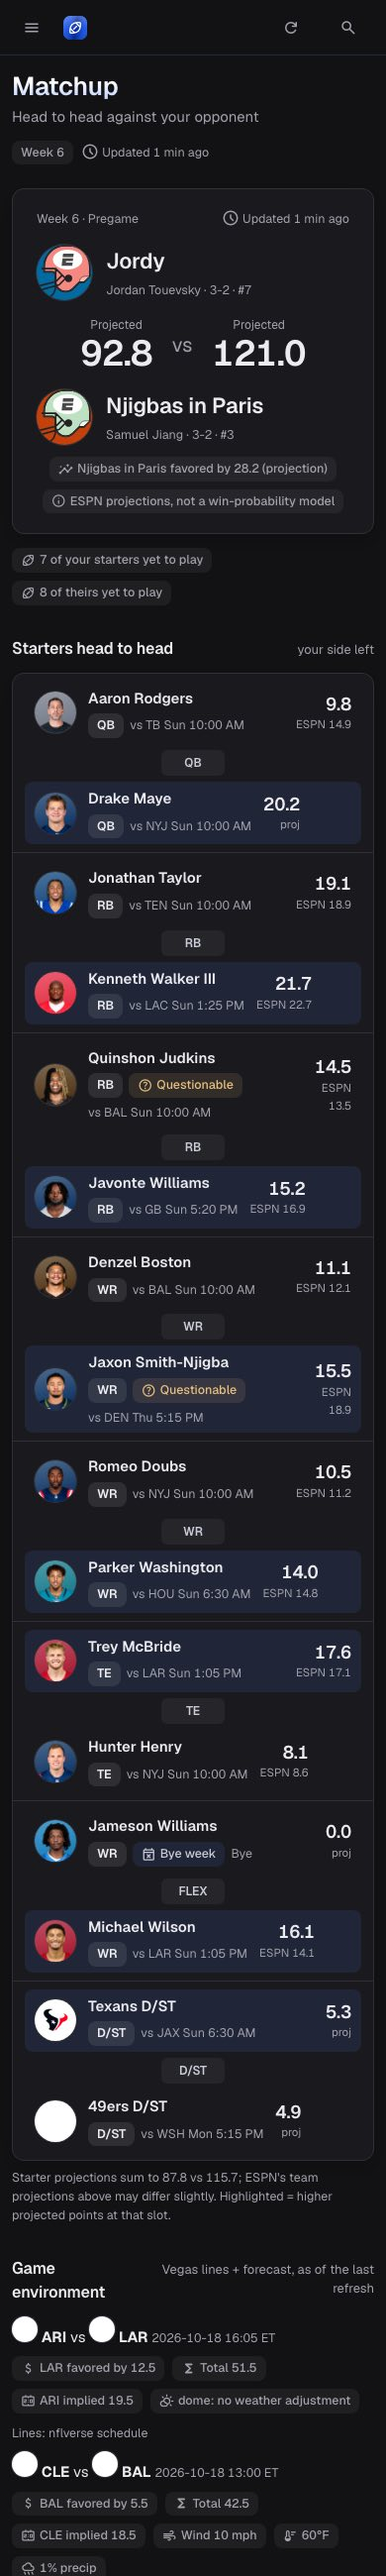
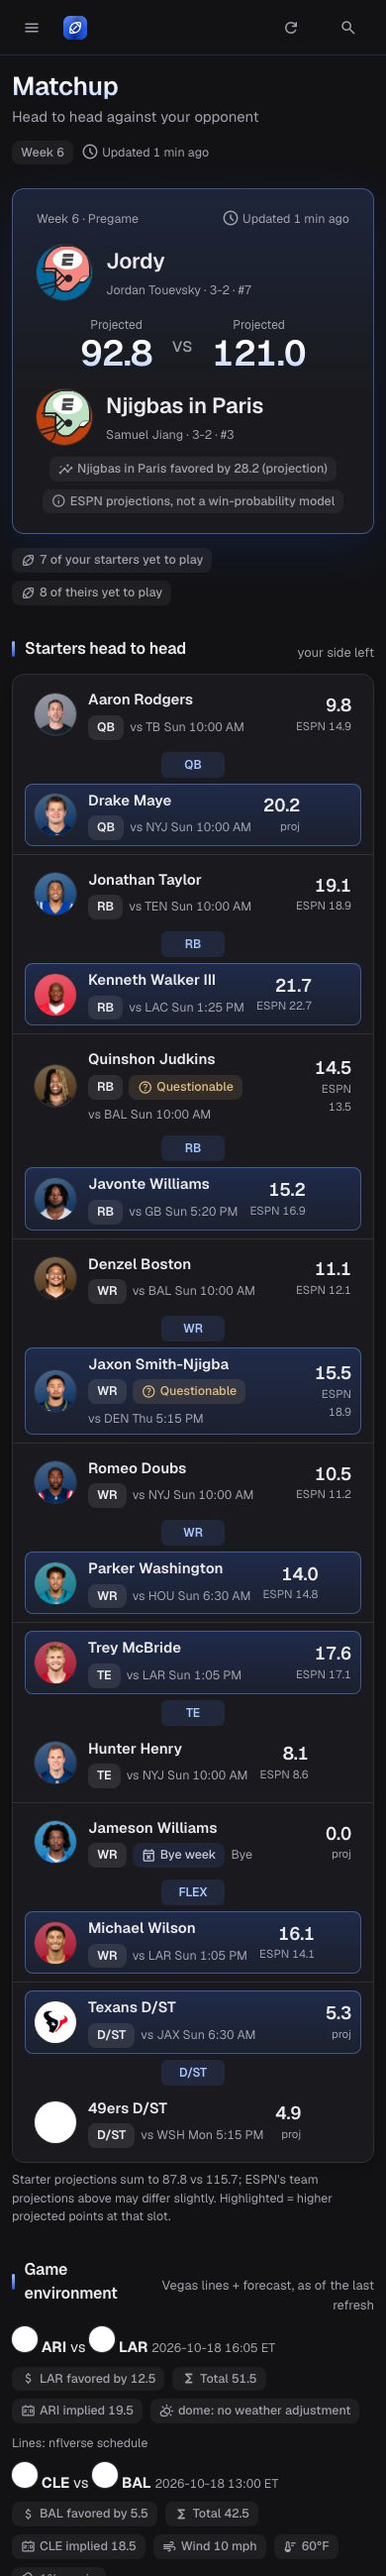
Carry the blue sheen styling through Players, My team, Matchup, League and Overview: segmented filters, switches, search field, assistant chips, blue-tinted highlights

diff --git a/web/src/pages/Players.tsx b/web/src/pages/Players.tsx
@@ -1,6 +1,7 @@
 import { useDeferredValue, useMemo, useRef, useState } from 'react'
 import { useVirtualizer } from '@tanstack/react-virtual'
 import { useApi } from '../api'
+import { Seg, Switch } from '../pick'
 import { Chip, Empty, MovesBlock, PlayerRow, Section, Skel, Icon } from '../ui'
 import type { Player } from '../types'
 
@@ -38,13 +39,13 @@ export default function Players() {
       {d.watch.length > 0 && <><Section title="Watchlist" aside={`${d.watch.length} saved player${d.watch.length !== 1 ? 's' : ''}`} />
         <div className="rows">{d.watch.map((p: Player) => <PlayerRow key={p.id} p={p} showActual={false} note={` · ${p.where}`} whyOpen={false} />)}</div></>}
       <Section title="Browse free agents" />
-      <div className="pills" role="group" aria-label="Position">{['All', ...d.positions].map((x: string) => <button key={x} className={`pill ${pos === x ? 'on' : ''}`} onClick={() => setPos(x)}>{x}</button>)}</div>
-      <div className="form" style={{ marginTop: 10 }}>
-        <div className="field"><label>Sort by</label><div className="pills">{SORTS.map((x) => <button key={x} className={`pill ${sort === x ? 'on' : ''}`} onClick={() => setSort(x)}>{x}</button>)}</div></div>
-        <div className="field"><label htmlFor="plq">Search free agents</label><input id="plq" type="text" value={q} placeholder="Search by name or team" onChange={(e) => setQ(e.target.value)} /></div>
-        <label className="toggle"><input type="checkbox" checked={healthy} onChange={(e) => setHealthy(e.target.checked)} /> Only healthy, not on bye</label>
+      <div className="toolbar">
+        <Seg label="Position" value={pos} onChange={setPos} options={['All', ...d.positions].map((x: string) => ({ v: x, l: x }))} />
+        <Seg label="Sort by" value={sort} onChange={setSort} options={SORTS.map((x) => ({ v: x, l: x }))} />
+        <label className="search-f"><Icon n="search" /><input id="plq" type="text" value={q} placeholder="Search by name or team" aria-label="Search free agents" onChange={(e) => setQ(e.target.value)} /></label>
+        <Switch on={healthy} onChange={setHealthy}>Only healthy, not on bye</Switch>
       </div>
-      {d.hasTags && <div className="pills" style={{ marginBottom: 8 }}>{['Buy low', 'Sell high', 'Role growing'].map((x) => <button key={x} className={`pill ${tag === x ? 'on' : ''}`} onClick={() => setTag(tag === x ? '' : x)} title="From expected-points vs actual production (backtested: buy-low and sell-high predict the next game; role-growing is informational).">{x}</button>)}</div>}
+      {d.hasTags && <div className="quick" role="group" aria-label="Signals">{['Buy low', 'Sell high', 'Role growing'].map((x) => <button key={x} type="button" className="qchip" aria-pressed={tag === x} onClick={() => setTag(tag === x ? '' : x)} title="From expected-points vs actual production (backtested)"><Icon n={x === 'Buy low' ? 'trending_up' : x === 'Sell high' ? 'sell' : 'bolt'} />{x}</button>)}</div>}
       <div className="fresh" style={{ margin: '2px 0 8px' }}>{rows.length} players · rest-of-season points = expected fantasy points over the games left (byes, injuries and playoff weeks included), under your league scoring.</div>
       {rows.length === 0 ? <Empty title="No players match these filters" body="Try clearing a filter." /> : (
         <div ref={parent} className="list-virt" role="list" aria-label="Free agents">

diff --git a/web/src/styles.css b/web/src/styles.css
@@ -301,3 +301,24 @@ details.tune .form { margin: 0; padding: 16px; } details.tune summary .ms { tran
 .btn.primary:disabled::before { animation-play-state: paused; }
 .setup .tile { background: var(--blue-1); color: #fff; }
 @media (prefers-reduced-motion: reduce) { .btn.primary::before { animation: none !important; } }
+
+/* v6 touch-ups for the remaining screens */
+.sec h3 { display: flex; align-items: center; gap: 10px; } .sec h3::before { content: ""; width: 3px; height: 16px; border-radius: 3px; background: linear-gradient(180deg, var(--blue-hi), var(--blue-1)); }
+.actions { display: flex; flex-wrap: wrap; gap: 8px; margin: 12px 0; }
+.qchip[aria-pressed=true] { background: var(--accent-bg); border-color: var(--accent-line); color: var(--blue-hi); }
+.toolbar { display: flex; flex-wrap: wrap; gap: 12px 16px; align-items: center; margin: 4px 0 12px; }
+.search-f { display: flex; align-items: center; gap: 8px; flex: 1 1 240px; min-width: 200px; height: 40px; padding: 0 14px; border-radius: 999px; border: 1px solid var(--border); background: var(--surface); transition: border-color 200ms, box-shadow 200ms; color: var(--muted); }
+.search-f:focus-within { border-color: var(--accent-line); box-shadow: 0 0 0 3px rgba(79, 124, 255, .18); } .search-f input { flex: 1; min-width: 0; border: 0; background: transparent; outline: none; color: var(--text); }
+.row { transition: background 200ms, box-shadow 200ms; } .rows .row:hover { background: linear-gradient(90deg, rgba(47, 102, 234, .12), transparent 70%); }
+.row.moved { background: linear-gradient(90deg, rgba(47, 102, 234, .2), rgba(47, 102, 234, .04)); box-shadow: inset 3px 0 0 var(--blue-2); }
+.row.me { background: linear-gradient(90deg, rgba(47, 102, 234, .2), rgba(47, 102, 234, .04)); box-shadow: inset 3px 0 0 var(--blue-2); }
+.bar i { background: linear-gradient(90deg, var(--blue-1), var(--blue-hi)); }
+.kpi { position: relative; border: 1px solid var(--border); border-radius: var(--radius); background: linear-gradient(180deg, rgba(47, 102, 234, .1), rgba(47, 102, 234, 0) 70%), var(--surface); box-shadow: var(--shadow-sm); }
+.kpi b:not(.up) { background: linear-gradient(180deg, #fff 30%, #b6cdff); -webkit-background-clip: text; background-clip: text; color: transparent; }
+.rec:hover { border-color: var(--accent-line); box-shadow: 0 12px 32px rgba(31, 85, 224, .16); transform: translateY(-1px); }
+.rec .ic { background: var(--accent-bg); color: var(--blue-hi); } .rec .ic.act { color: var(--warn); background: var(--warn-bg); }
+.rec .edgenote, .notice > .ms { color: var(--blue-hi); } .notice.good > .ms { color: var(--good); } .notice.warn > .ms { color: var(--warn); } .notice.bad > .ms { color: var(--bad); }
+.duel .half.win { background: linear-gradient(180deg, rgba(47, 102, 234, .22), rgba(47, 102, 234, .08)); box-shadow: inset 0 0 0 1px var(--accent-line); } .duel .mid { color: var(--blue-hi); background: var(--accent-bg); }
+.board { background: linear-gradient(180deg, rgba(47, 102, 234, .14), rgba(47, 102, 234, 0) 60%), var(--surface); border-color: var(--accent-line); box-shadow: 0 16px 48px rgba(31, 85, 224, .14); }
+.board .big { background: linear-gradient(180deg, #fff 30%, #b6cdff); -webkit-background-clip: text; background-clip: text; color: transparent; }
+.rank { color: var(--blue-hi); }

diff --git a/web/src/pages/Team.tsx b/web/src/pages/Team.tsx
@@ -1,4 +1,5 @@
 import { useState } from 'react'
+import { Switch } from '../pick'
 import { useApi, post, qc } from '../api'
 import { AskAI, Icon, Notice, PlayerRow, RecCard, Rows, Section, Skel, signed, useActions } from '../ui'
 
@@ -20,8 +21,7 @@ export default function Team() {
           <div className="kpi"><b>{d.optimalTotal.toFixed(1)}</b><small>Optimal projected ({d.riskMode.toLowerCase()})</small></div>
           <div className="kpi"><b className={d.gain > 0.05 ? 'up' : ''}>{signed(d.gain)}</b><small>Possible gain</small></div>
         </div>
-        <label className="toggle" title={d.hasSwaps ? 'Shows where each player would sit. Nothing is changed in ESPN.' : 'Your lineup is already optimal.'}>
-          <input type="checkbox" checked={preview} disabled={!d.hasSwaps} onChange={(e) => setPreview(e.target.checked)} /> Preview the optimal lineup</label>
+        <Switch on={preview} onChange={(v) => d.hasSwaps && setPreview(v)}>{d.hasSwaps ? 'Preview the optimal lineup' : 'Lineup already optimal'}</Switch>
       </div>
       <Notice icon="lock"><b>Fantasy Hub is read-only.</b> Previews show recommendations; make the actual moves in the ESPN app.</Notice>
       {d.edgesOn && <Notice icon="bolt"><b>Edges on:</b> projections include adjustments for injuries, game environment, weather and opportunity. On ESPN's raw numbers your optimal lineup is {d.espnOptimal.toFixed(1)}; with edges {d.optimalTotal.toFixed(1)} ({signed(d.optimalTotal - d.espnOptimal)}).</Notice>}

diff --git a/web/src/pages/League.tsx b/web/src/pages/League.tsx
@@ -8,11 +8,11 @@ export default function League() {
     <>
       <Section title="Standings" aside={`${d.count} teams · ${d.regWeeks}-game regular season`} />
       <div className="rows" role="list">{d.standings.map((t: any) => (
-        <div key={t.id} className="row" style={{ gridTemplateColumns: '28px minmax(0,1fr) 80px 70px 80px', background: t.me ? 'var(--wash)' : undefined }}>
+        <div key={t.id} className={`row ${t.me ? 'me' : ''}`} style={{ gridTemplateColumns: '28px minmax(0,1fr) 80px 70px 80px' }}>
           <span className="rank num">{t.standing}</span>
           <div className="who"><FAvatar t={t} size={40} /><div style={{ minWidth: 0 }}><div className="nm">{t.name} {t.me && <Chip kind="info">You</Chip>}</div><div className="sub">{t.owner}</div></div></div>
           <div className="stat"><b>{t.record}</b><small>Record</small></div><div className="stat hide-sm"><b>{t.pf}</b><small>PF</small></div>
-          <div className="stat hide-sm">{t.playoffPct ? <><b>{Math.round(t.playoffPct)}%</b><small>Playoffs</small></> : null}</div>
+          <div className="stat hide-sm">{t.playoffPct ? <><b>{Math.round(t.playoffPct)}%</b><small>Playoffs</small><div className="bar"><i style={{ width: `${Math.round(t.playoffPct)}%` }} /></div></> : null}</div>
         </div>))}</div>
       <Section title={`Week ${d.week} matchups`} aside="ESPN projections" />
       {d.matchups.length ? <div className="rows">{d.matchups.map((m: any, i: number) => (

diff --git a/web/src/ui.tsx b/web/src/ui.tsx
@@ -223,7 +223,7 @@ export function MovesBlock({ moves, showStreams = true, limit = 99, showEmpty = 
 
 export function AskAI({ label, prompt, title, icon = 'auto_awesome' }: { label: string; prompt: string; title: string; icon?: string }) {
   const { askAI } = useActions()
-  return <button className="btn sm" onClick={() => askAI(prompt, title)} title="Opens an AI review. It only reads your league and never makes changes."><Icon n={icon} /> {label}</button>
+  return <button className="qchip" onClick={() => askAI(prompt, title)} title="Opens an AI review. It only reads your league and never makes changes."><Icon n={icon} />{label}</button>
 }
 
 function useEscape(onClose: () => void) {
